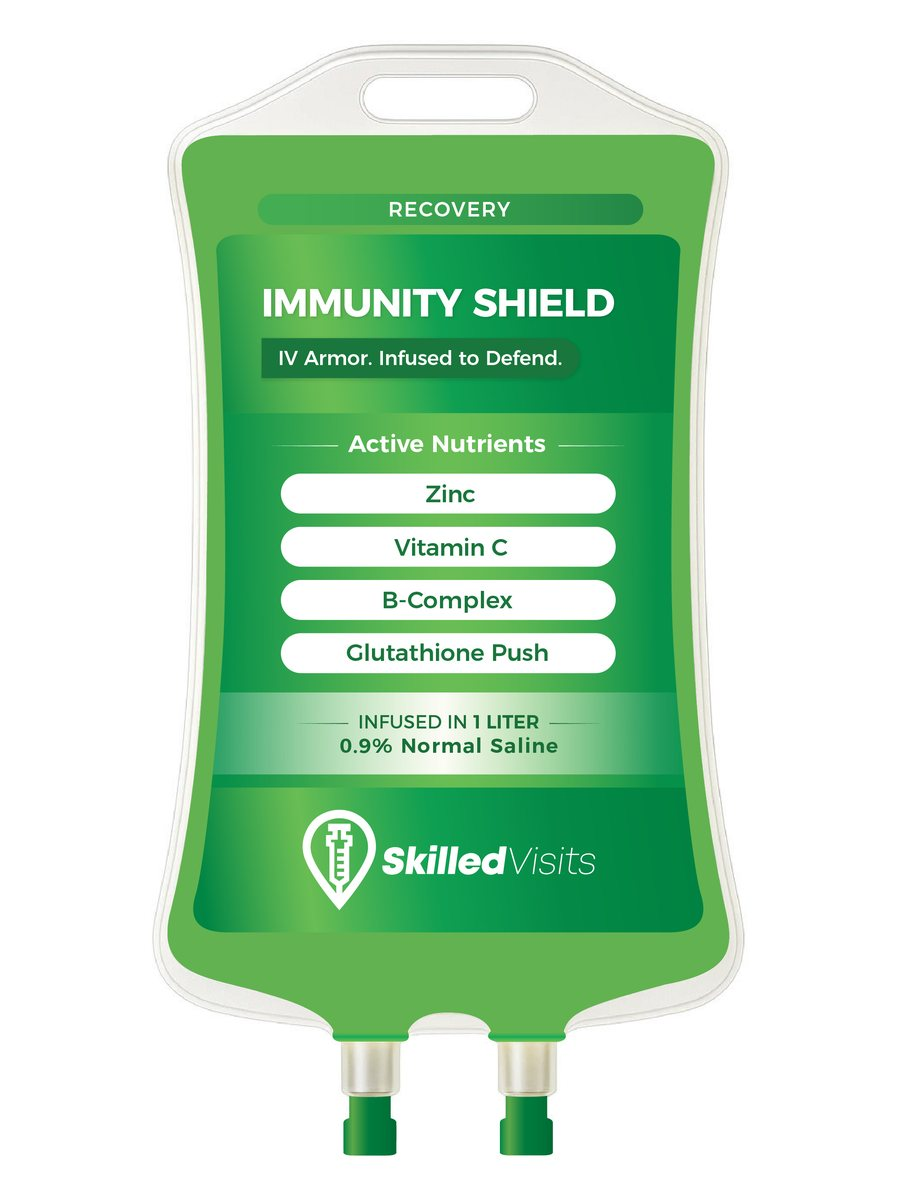
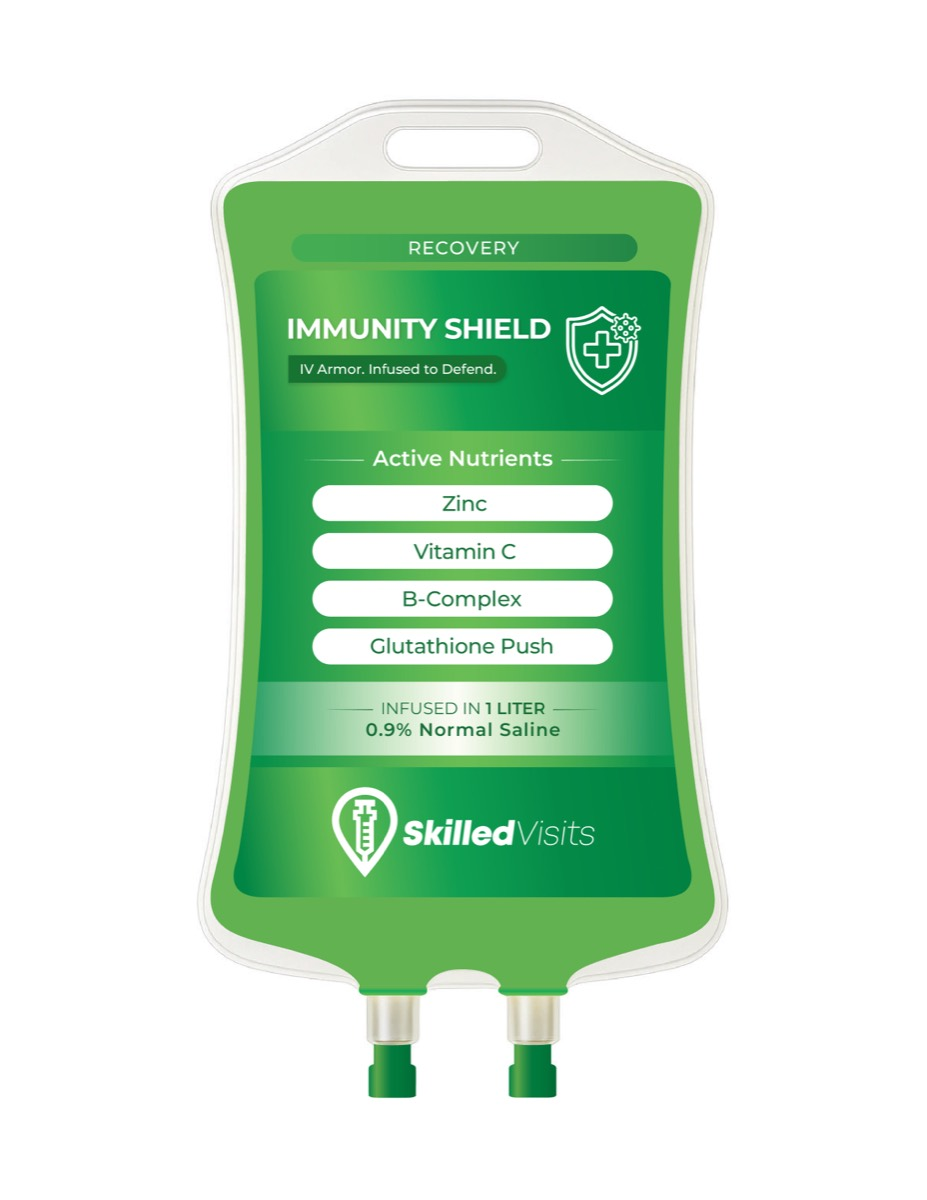
Update the IV bag artwork to the new mockups
Replaces all 16 existing bag renders with the refreshed artwork and adds
the two that were still on the placeholder, so every drip on the menu now
has its own bag. Seventeen of the eighteen source files are CMYK, which
browsers render wrong, so each was converted to sRGB and resized to 1200px
tall at roughly 70-100 KB.

Changed region(s): [[0.1556, 0.0308, 0.84, 0.9867]]

diff --git a/src/lib/content.ts b/src/lib/content.ts
@@ -114,9 +114,6 @@ export type Service = {
 // Standard saline volume used by every infusion unless otherwise noted.
 const STD_SALINE = "1 Liter 0.9% Normal Saline";
 
-// Stand-in for drips whose bag artwork hasn't been delivered yet.
-const BAG_PLACEHOLDER = "/bags/placeholder.svg";
-
 export const IV_COCKTAILS: Cocktail[] = [
   // ---- Recovery ----
   {
@@ -364,7 +361,7 @@ export const IV_COCKTAILS: Cocktail[] = [
     description:
       "500 mg of NR (Nicotinamide Riboside), an NAD+ precursor, for cellular energy and longevity support with a shorter infusion time.",
     benefits: ["Nicotinamide Riboside 500 mg"],
-    image: BAG_PLACEHOLDER,
+    image: "/bags/niagen-boost.jpg",
     price: "$799",
     threePack: "$2,159",
     memberRate: "$599",
@@ -379,7 +376,7 @@ export const IV_COCKTAILS: Cocktail[] = [
     description:
       "50 to 200 mg of iron sucrose for diagnosed iron deficiency, with dosing based on provider evaluation and laboratory results.",
     benefits: ["Iron Sucrose 50-200 mg"],
-    image: BAG_PLACEHOLDER,
+    image: "/bags/iron-sucrose.jpg",
     price: "$499",
     priceFrom: true,
     note: "Prescription only, requires provider evaluation",
